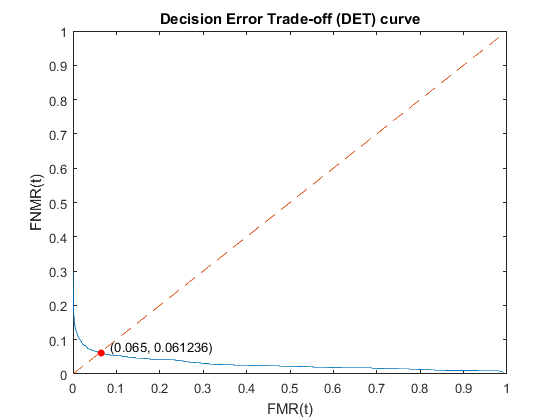
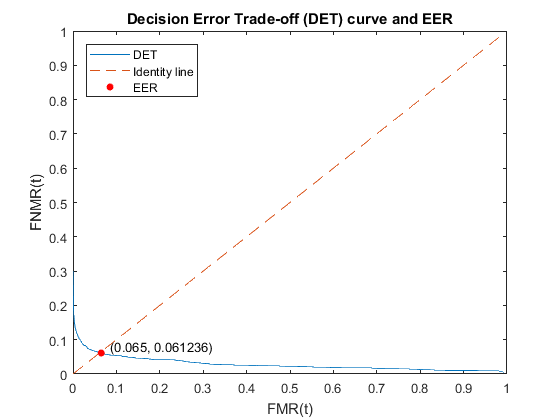
mystuffs

diff --git a/assignment1/create_histogram.m b/assignment1/create_histogram.m
@@ -4,9 +4,11 @@ function [] = create_histogram(gen, imp)
         [~, gen, imp] = get_gen_imp;  
     end
     figure(3)
-    histogram(gen, 100, 'FaceColor', 'r', 'EdgeColor', 'none', 'Normalization', 'probability');
+    
+    histogram(gen, 250, 'FaceColor', 'r', 'EdgeColor', 'none', 'Normalization', 'probability');
     hold on
-    histogram(imp, 100, 'FaceColor', 'b', 'EdgeColor', 'none', 'Normalization', 'probability');
+    histogram(imp, 250, 'FaceColor', 'b', 'EdgeColor', 'none', 'Normalization', 'probability');
+    xlim([-750 250])
     title("Histogram of genuine and imposter scores");
     legend('Genuine scores', 'Impostor scores', 'Location','northwest');
     xlabel('Score');

diff --git a/assignment1/perf_det2.m b/assignment1/perf_det2.m
@@ -22,7 +22,7 @@ function det = perf_det2(scores_fmr, scores_fnmr)
     text(px+0.02,py+0.02,['(', num2str(px), ', ', num2str(py), ')'])
     legend('DET', 'Identity line', 'EER', 'Location','northwest');
     hold off
-    title("Decision Error Trade-off (DET) curve");
+    title("Decision Error Trade-off (DET) curve and EER");
     xlabel('FMR(t)');
     ylabel('FNMR(t)');
     

diff --git a/assignment1/perf_fmr_fnmr.m b/assignment1/perf_fmr_fnmr.m
@@ -31,5 +31,5 @@ function [err_fmr, err_fnmr] = perf_fmr_fnmr(t_min, t_max, imp, gen, output)
     legend('FMR', 'FNMR', 'Location','northwest');
     title("FMR and FNMR for given threshold");
     xlabel('Value of threshold');
-    ylabel('FMR and FNMR: % imposter score > threshold '); 
+    ylabel('FMR and FNMR: percentage of score > threshold '); 
 end

diff --git a/assignment1/perf_roc.m b/assignment1/perf_roc.m
@@ -8,7 +8,7 @@ function roc = perf_roc(scores_fmr, scores_tmr)
     roc = [roc_unique_fmr, roc_max_tmr]';
     % plots results
     figure();
-   	loglog(roc(1,:), roc(2,:));
+   	plot(roc(1,:), roc(2,:));
     %ylim([0.7,1]);
     %set(gca, 'yscale', 'log')
     title("Receiver Operating Characteristic (ROC) curve");
